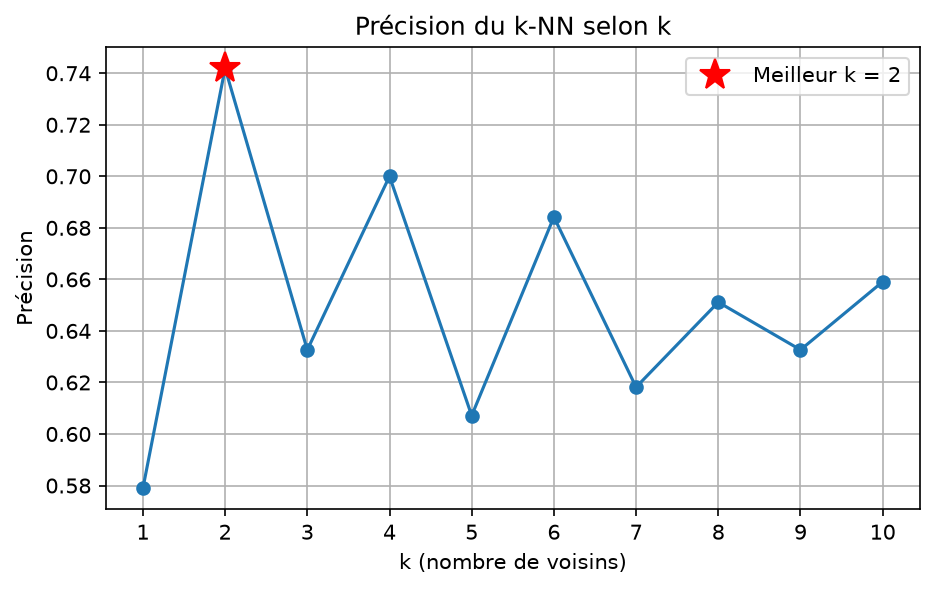
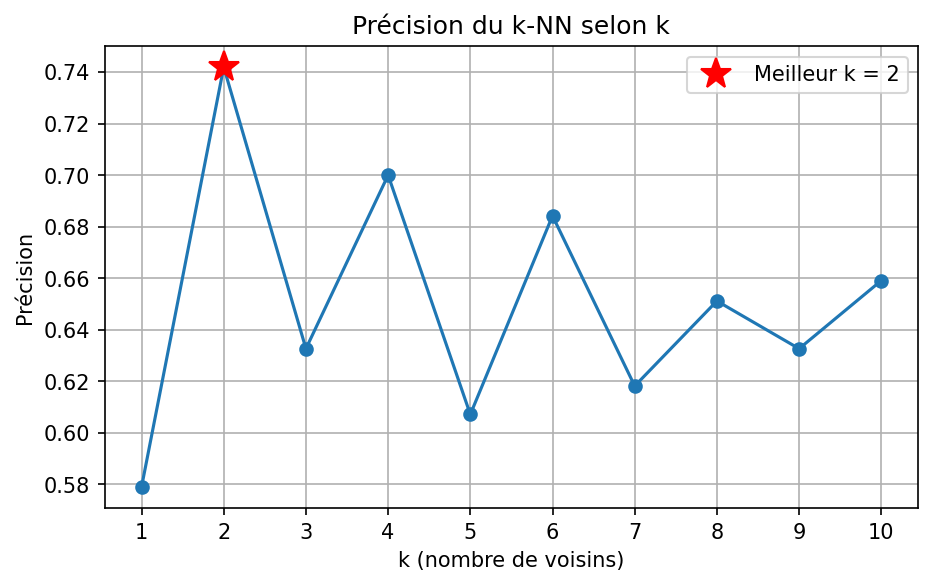
commit

diff --git a/test.py b/test.py
@@ -1,4 +1,3 @@
-
 import pandas as pd
 import numpy as np
 from sklearn.model_selection import train_test_split
@@ -7,6 +6,7 @@ from sklearn.model_selection import train_test_split
 # 1. CHARGEMENT DU DATASET
 # =====================================================
 
+# Lecture du fichier CSV contenant le dataset déjà prétraité
 df = pd.read_csv('data/diabetes_preprocessed.csv')
 
 
@@ -14,7 +14,10 @@ df = pd.read_csv('data/diabetes_preprocessed.csv')
 # 2. SEPARATION DES CARACTERISTIQUES ET DE LA CLASSE
 # =====================================================
 
+# X : les variables explicatives (toutes les colonnes sauf 'class')
 X = df.drop('class', axis=1)
+
+# y : la variable à prédire (diabétique ou non)
 y = df['class']
 
 
@@ -25,13 +28,13 @@ y = df['class']
 X_train, X_test, y_train, y_test = train_test_split(
     X,
     y,
-    test_size=0.2,
-    random_state=42,
-    shuffle=True,
-    stratify=y
+    test_size=0.2,    # 20% pour le test, donc 80% pour l'apprentissage
+    random_state=42,  # graine fixe : on obtient toujours la même partition
+    shuffle=True,     # mélange aléatoire des lignes avant la découpe
+    stratify=y        # garde la même proportion de classes dans train et test
 )
 
-# Affichage des dimensions
+# Affichage des dimensions pour vérifier la partition
 print("Taille du dataset :", df.shape)
 print("X_train :", X_train.shape)
 print("X_test :", X_test.shape)
@@ -43,6 +46,8 @@ print("y_test :", y_test.shape)
 # 4. CONVERSION EN TABLEAUX NUMPY
 # =====================================================
 
+# On passe de pandas à numpy pour faire les calculs de distances
+# plus simplement (indexation par position, opérations vectorisées)
 X_train = X_train.to_numpy()
 X_test = X_test.to_numpy()
 
@@ -55,7 +60,8 @@ y_test = y_test.to_numpy()
 # =====================================================
 
 def dist_euc(x1, x2):
-
+    # Distance euclidienne entre deux points :
+    # racine de la somme des carrés des différences, variable par variable
     return np.sqrt(np.sum((x1 - x2) ** 2))
 
 
@@ -64,11 +70,14 @@ def dist_euc(x1, x2):
 # =====================================================
 
 def calculer_distances(point_test, X_train):
-
+    # Liste qui contiendra la distance entre le point de test
+    # et chacun des points d'apprentissage
     distances = []
 
+    # Parcourir tous les points de l'ensemble d'apprentissage
     for point_train in X_train:
 
+        # Distance entre le point de test et ce point d'apprentissage
         d = dist_euc(point_test, point_train)
 
         distances.append(d)
@@ -81,9 +90,11 @@ def calculer_distances(point_test, X_train):
 # =====================================================
 
 def trouver_voisins(distances, k):
-
+    # argsort renvoie les indices des points classés
+    # de la plus petite distance à la plus grande
     indices_tries = np.argsort(distances)
 
+    # On garde les k premiers : ce sont les k plus proches voisins
     voisins = indices_tries[:k]
 
     return voisins
@@ -94,14 +105,17 @@ def trouver_voisins(distances, k):
 # =====================================================
 
 def vote_majoritaire(voisins, y_train):
-
+    # Classes des k voisins (on récupère leurs étiquettes dans y_train)
     classes_voisins = y_train[voisins]
 
+    # Compter combien de fois chaque classe apparaît parmi les voisins
     classes, comptes = np.unique(
         classes_voisins,
         return_counts=True
     )
 
+    # La classe prédite est celle qui a le plus de votes
+    # (en cas d'égalité, argmax prend la première dans l'ordre alphabétique)
     classe_predite = classes[np.argmax(comptes)]
 
     return classe_predite
@@ -112,11 +126,13 @@ def vote_majoritaire(voisins, y_train):
 # =====================================================
 
 def knn(point_test, X_train, y_train, k):
-
+    # Étape 1 : distance entre le point de test et tous les points d'apprentissage
     distances = calculer_distances(point_test, X_train)
 
+    # Étape 2 : indices des k points les plus proches
     voisins = trouver_voisins(distances, k)
 
+    # Étape 3 : la classe majoritaire parmi ces voisins est la prédiction
     prediction = vote_majoritaire(voisins, y_train)
 
     return prediction
@@ -126,21 +142,26 @@ def knn(point_test, X_train, y_train, k):
 # 10. APPLICATION DE KNN POUR K = 1 A 10
 # =====================================================
 
+# Répéter tout le processus pour chaque valeur de k de 1 à 10
 for k in range(1, 11):
 
+    # Liste des prédictions pour cette valeur de k
     predictions = []
 
     # Parcourir toutes les observations de test
     for point_test in X_test:
 
-        # Prédire la classe
+        # Prédire la classe en utilisant l'ensemble d'apprentissage comme référence
         prediction = knn(point_test, X_train, y_train, k)
 
         # Stocker la prédiction
         predictions.append(prediction)
 
+    # Affichage des résultats pour ce k
     print("\nPour k =", k)
     print("Nombre de prédictions :", len(predictions))
 
-    # Afficher quelques prédictions
+    # Afficher quelques prédictions seulement (les 5 premières)
     print("Premières prédictions :", predictions[:5])
+    
+    

diff --git a/main.py b/main.py
@@ -5,12 +5,13 @@
 # Ensemble : courbe de précision + meilleur k
 # =====================================================================
 
-import pandas as pd                 # tableaux
-import numpy as np                  # calculs
-import matplotlib.pyplot as plt     # dessin de la courbe
+import pandas as pd                
+import numpy as np                  
+import matplotlib.pyplot as plt     
 from scipy.io import arff           # lecture du fichier .arff
 
-GRAINE = 7                          # graine du hasard (à citer dans le rapport)
+GRAINE = 7                          # graine du hasard 
+
 
 
 # =====================================================================
@@ -39,6 +40,7 @@ print("Patients par classe :")
 print(df["class"].value_counts())
 
 # X = les 8 attributs, y = la classe à prédire
+
 X = df.drop(columns=["class"]).values
 y = df["class"].values
 print("\nX :", X.shape, "| y :", y.shape)
@@ -50,22 +52,50 @@ print("\nX :", X.shape, "| y :", y.shape)
 
 def partitionner(X, y, ratio_train=0.8, graine=GRAINE):
     """Partition aléatoire et SANS remise en apprentissage / test."""
+
+    # Générateur aléatoire initialisé avec la graine (résultats reproductibles)
     rng = np.random.default_rng(graine)
-    indices = rng.permutation(len(X))         # chaque patient apparaît une seule fois
+
+    # Mélange aléatoire des numéros de lignes 0..n-1.
+    # Chaque indice apparaît exactement une fois => tirage SANS remise,
+    # donc aucune ligne ne peut être à la fois dans train et dans test.
+    indices = rng.permutation(len(X))
+
+    # Nombre de lignes d'apprentissage : 80 % du total, arrondi à l'entier inférieur
     n_train = int(ratio_train * len(X))
+
+    # Les n_train premiers indices -> apprentissage, les autres -> test
+    # (80 % / 20 %, ensembles disjoints)
     tr, te = indices[:n_train], indices[n_train:]
+
+    # On sélectionne les lignes de X et y avec les MÊMES indices,
+    # pour que chaque exemple reste associé à sa bonne classe
     return X[tr], y[tr], X[te], y[te]
+
 
 
 X_train, y_train, X_test, y_test = partitionner(X, y)
 print("Apprentissage :", X_train.shape, "| Test :", X_test.shape)
 
-# Normalisation (z-score) : statistiques de l'APPRENTISSAGE seulement
-mu = X_train.mean(axis=0)
-sigma = X_train.std(axis=0)
-sigma[sigma == 0] = 1.0                       # sécurité : évite une division par 0
+# ---------- Normalisation (z-score) ----------
+# Les statistiques sont calculées sur l'APPRENTISSAGE seulement,
+# pour que le test reste réellement "jamais vu" (pas de data leakage)
+
+mu = X_train.mean(axis=0)      # moyenne de chaque colonne (axis=0 : sur les lignes)
+sigma = X_train.std(axis=0)    # écart-type de chaque colonne
+
+# Si une colonne est constante, son écart-type vaut 0 : on le remplace par 1
+# pour éviter une division par zéro (la colonne devient alors simplement 0)
+sigma[sigma == 0] = 1.0
+
+# Formule du z-score : (valeur - moyenne) / écart-type
 X_train = (X_train - mu) / sigma
+
+# Le test est normalisé avec les mêmes mu et sigma que le train
+# (on ne recalcule JAMAIS de statistiques sur le test)
 X_test = (X_test - mu) / sigma
+
+# On standardise les variables pour que celles à grande valeur (ex. insuline) ne dominent pas les autres.
 
 
 # =====================================================================
@@ -78,9 +108,12 @@ def knn_predict(X_train, y_train, X_test, k):
     for x in X_test:
         # distance euclidienne à tous les patients d'apprentissage
         distances = np.sqrt(((X_train - x) ** 2).sum(axis=1))
-        # numéros des k plus proches voisins
+         # np.argsort trie les distances et renvoie les INDICES (pas les valeurs) ;
+        # [:k] garde les k plus petits = les k plus proches voisins
         voisins = np.argsort(distances)[:k]
         # vote majoritaire (égalité -> classe 0)
+         # np.bincount compte les occurrences de chaque classe 
+        # .argmax() renvoie la classe la plus fréquente
         vote = np.bincount(y_train[voisins]).argmax()
         predictions.append(vote)
     return np.array(predictions)
@@ -98,12 +131,13 @@ for k in range(1, 11):
 
 def matrice_confusion(y_vrai, y_pred):
     """Retourne TP, TN, FP, FN (classe positive = 1 = diabétique)."""
-    TP = int(((y_vrai == 1) & (y_pred == 1)).sum())
-    TN = int(((y_vrai == 0) & (y_pred == 0)).sum())
-    FP = int(((y_vrai == 0) & (y_pred == 1)).sum())
-    FN = int(((y_vrai == 1) & (y_pred == 0)).sum())
+    # (y_vrai == 1) donne un tableau de booléens ; & fait un "ET" élément par élément
+    # .sum() compte les True, donc le nombre de cas qui vérifient les deux conditions
+    TP = int(((y_vrai == 1) & (y_pred == 1)).sum())  # vraiment 1 ET prédit 1
+    TN = int(((y_vrai == 0) & (y_pred == 0)).sum())  # vraiment 0 ET prédit 0
+    FP = int(((y_vrai == 0) & (y_pred == 1)).sum())  # vraiment 0 mais prédit 1
+    FN = int(((y_vrai == 1) & (y_pred == 0)).sum())  # vraiment 1 mais prédit 0
     return TP, TN, FP, FN
-
 
 def mesures(TP, TN, FP, FN):
     """Précision, rappel et F-mesure (0 si division par 0)."""
